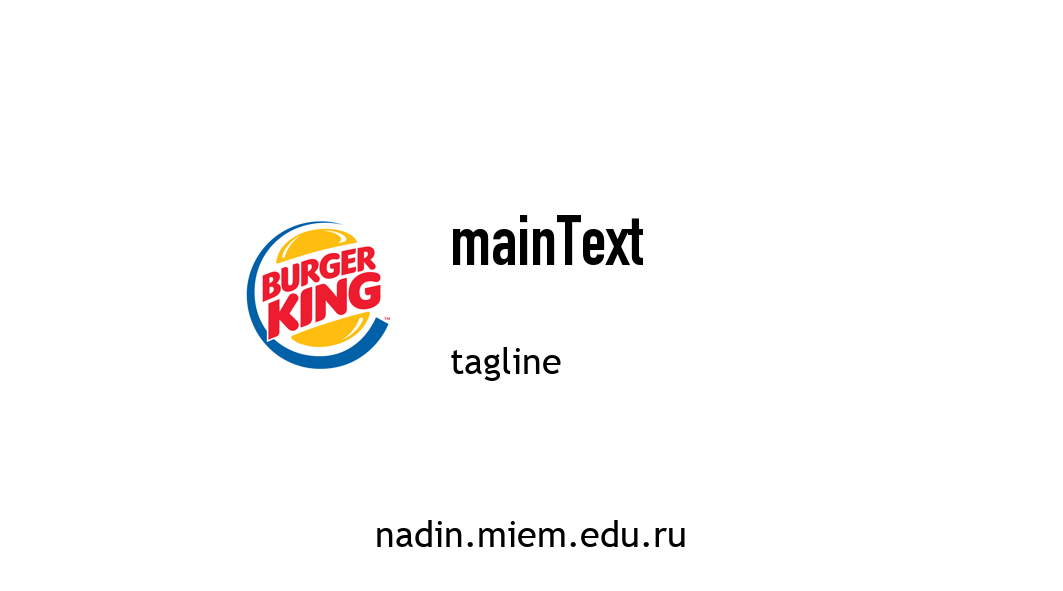
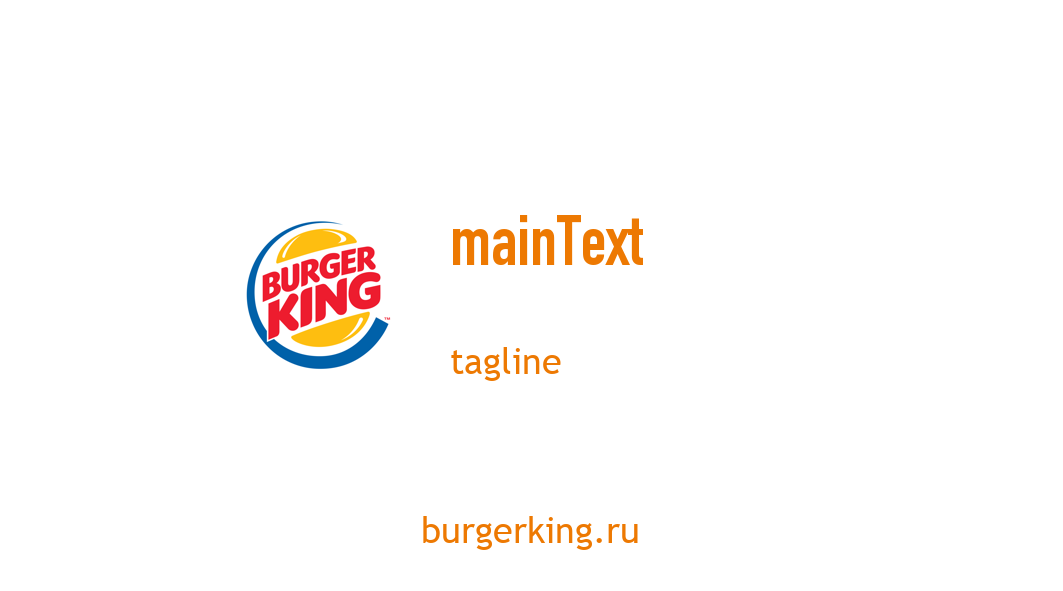
Some bugs fixed

Changed region(s): [[0.4036, 0.3655, 0.6209, 0.4569], [0.3415, 0.8832, 0.6519, 0.9442], [0.4036, 0.5787, 0.5278, 0.6396]]

diff --git a/Scripts/Screen.py b/Scripts/Screen.py
@@ -13,7 +13,7 @@ def RGB2HEX(color):
 
 def runAlg(mainText, tagline, siteAddress, phone, mail, logoPath):
 
-    width, height = 900, 400
+    width, height = 900, 250
     options = webdriver.ChromeOptions()
     '''options.add_argument('headless')'''
     options.add_argument(f'window-size={width},{height}')
@@ -23,7 +23,7 @@ def runAlg(mainText, tagline, siteAddress, phone, mail, logoPath):
     #  http://nadin.miem.edu.ru
     #  https://auto.ru
     driver.get(siteAddress) 
-    elements = driver.find_elements_by_tag_name('header')
+    elements = driver.find_elements_by_tag_name('body')
     el_num = 0
     for el in elements:
         elements[el_num].screenshot("screenshot" + str(el_num) + ".png")
@@ -51,12 +51,12 @@ def runAlg(mainText, tagline, siteAddress, phone, mail, logoPath):
         else:
             cols = 1
 
-        if height >= height_m:
+        if height > height_m:
             fin_row = height % height_m
         else:
             fin_row = height
 
-        if width >= width_m:
+        if width > width_m:
             fin_col = width % width_m
         else:
             fin_col = width
@@ -136,7 +136,7 @@ def runAlg(mainText, tagline, siteAddress, phone, mail, logoPath):
     background = (color[maxNum][0], color[maxNum][1] , color[maxNum][2])
     textColor = (color[almostMaxNum][0], color[almostMaxNum][1] , color[almostMaxNum][2])
 
-    inp = 0#random.randint(0, 1)
+    inp = random.randint(0, 1)
 
     if inp == 0:
         #-------------------------------------------------------------------------------Sample1-----------------------------------------------------------------------------
@@ -355,5 +355,5 @@ def runAlg(mainText, tagline, siteAddress, phone, mail, logoPath):
         return finalPath
         #-------------------------------------------------------------------------------Sample2 Ends-----------------------------------------------------------------------------
 
-result = runAlg("mainText", "tagline", "https://burgerking.ru", "88005553535", "bk@mail.ru", "D:\\GitProjects\\vEasytCard\\Scripts\\Samples\\bk.png")
-print(result)
+#result = runAlg("mainText", "tagline", "https://burgerking.ru", "88005553535", "bk@mail.ru", "D:\\GitProjects\\vEasytCard\\Scripts\\Samples\\bk.png")
+#print(result)
